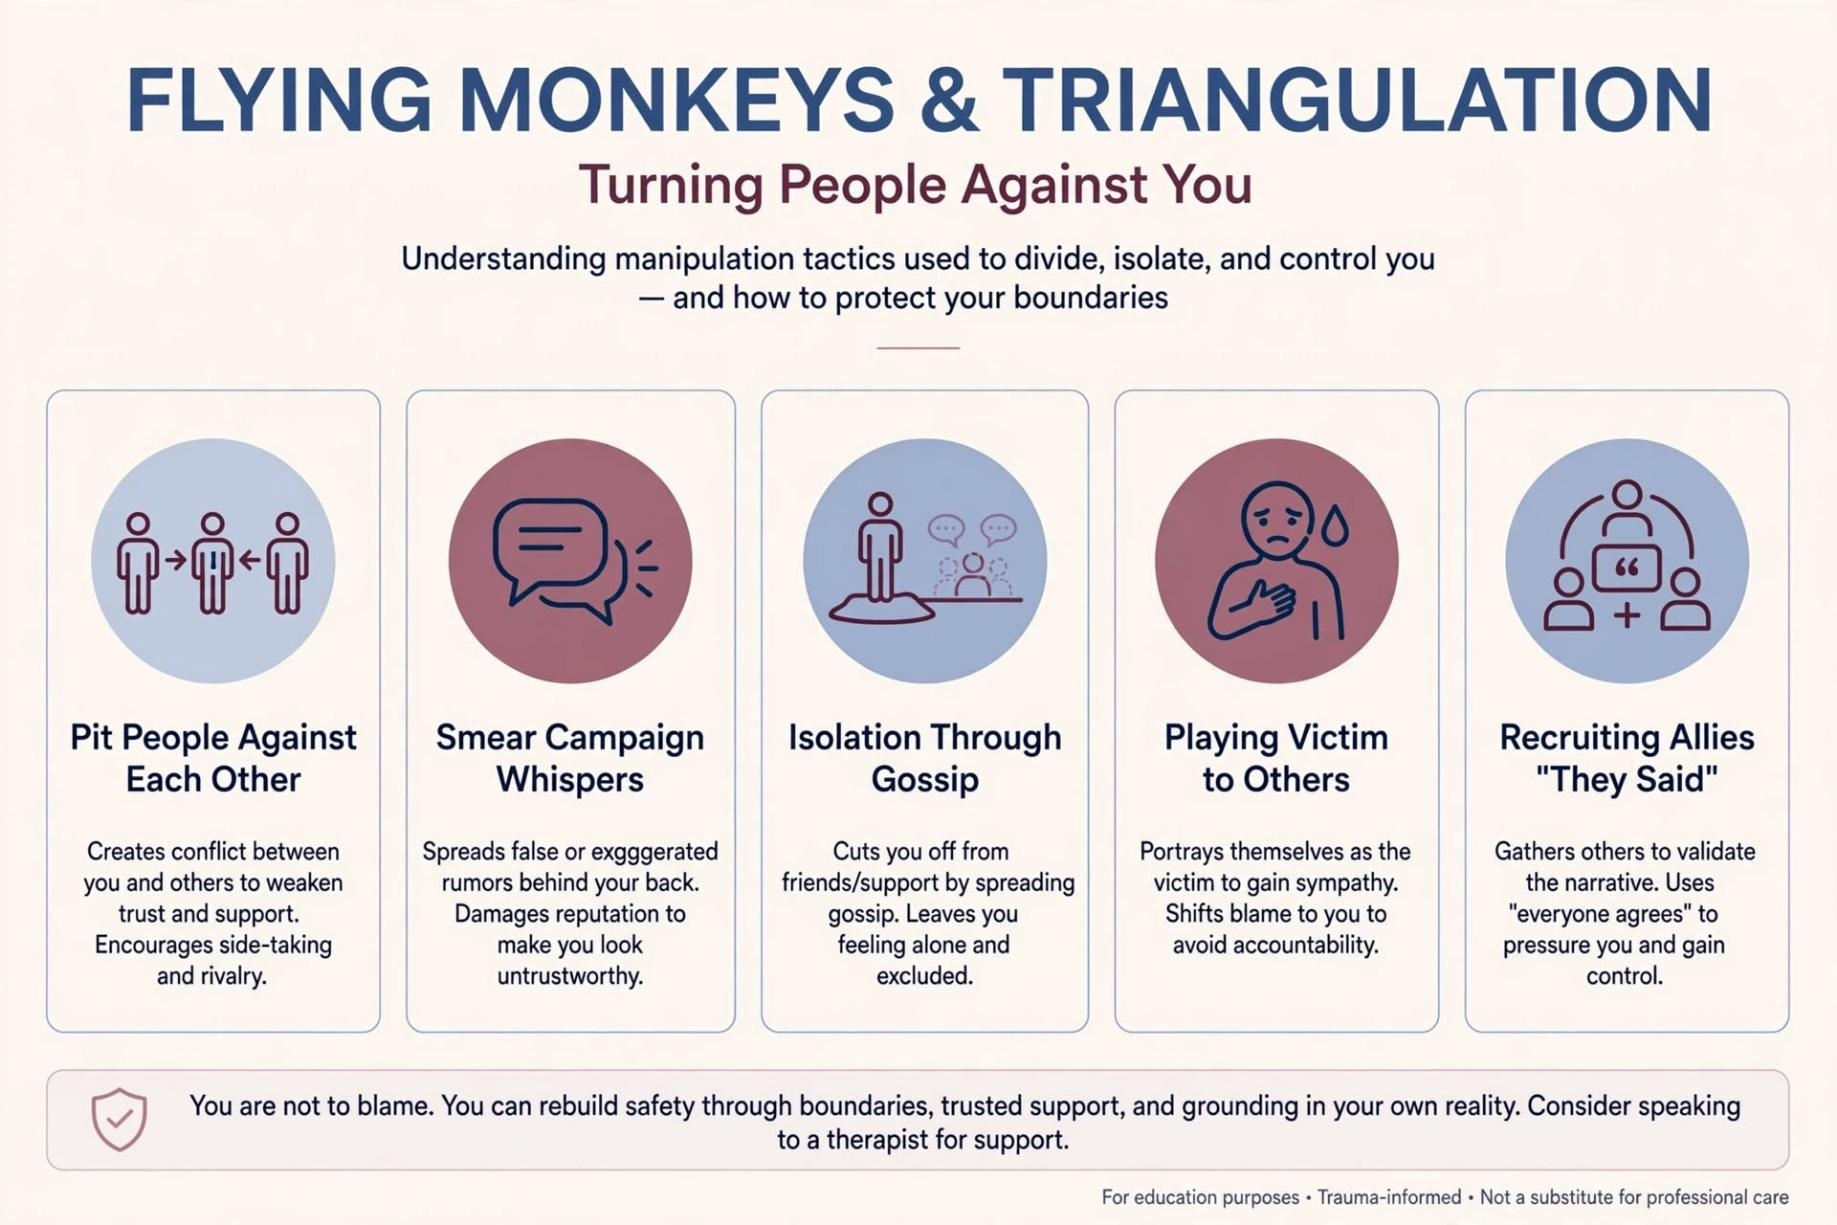
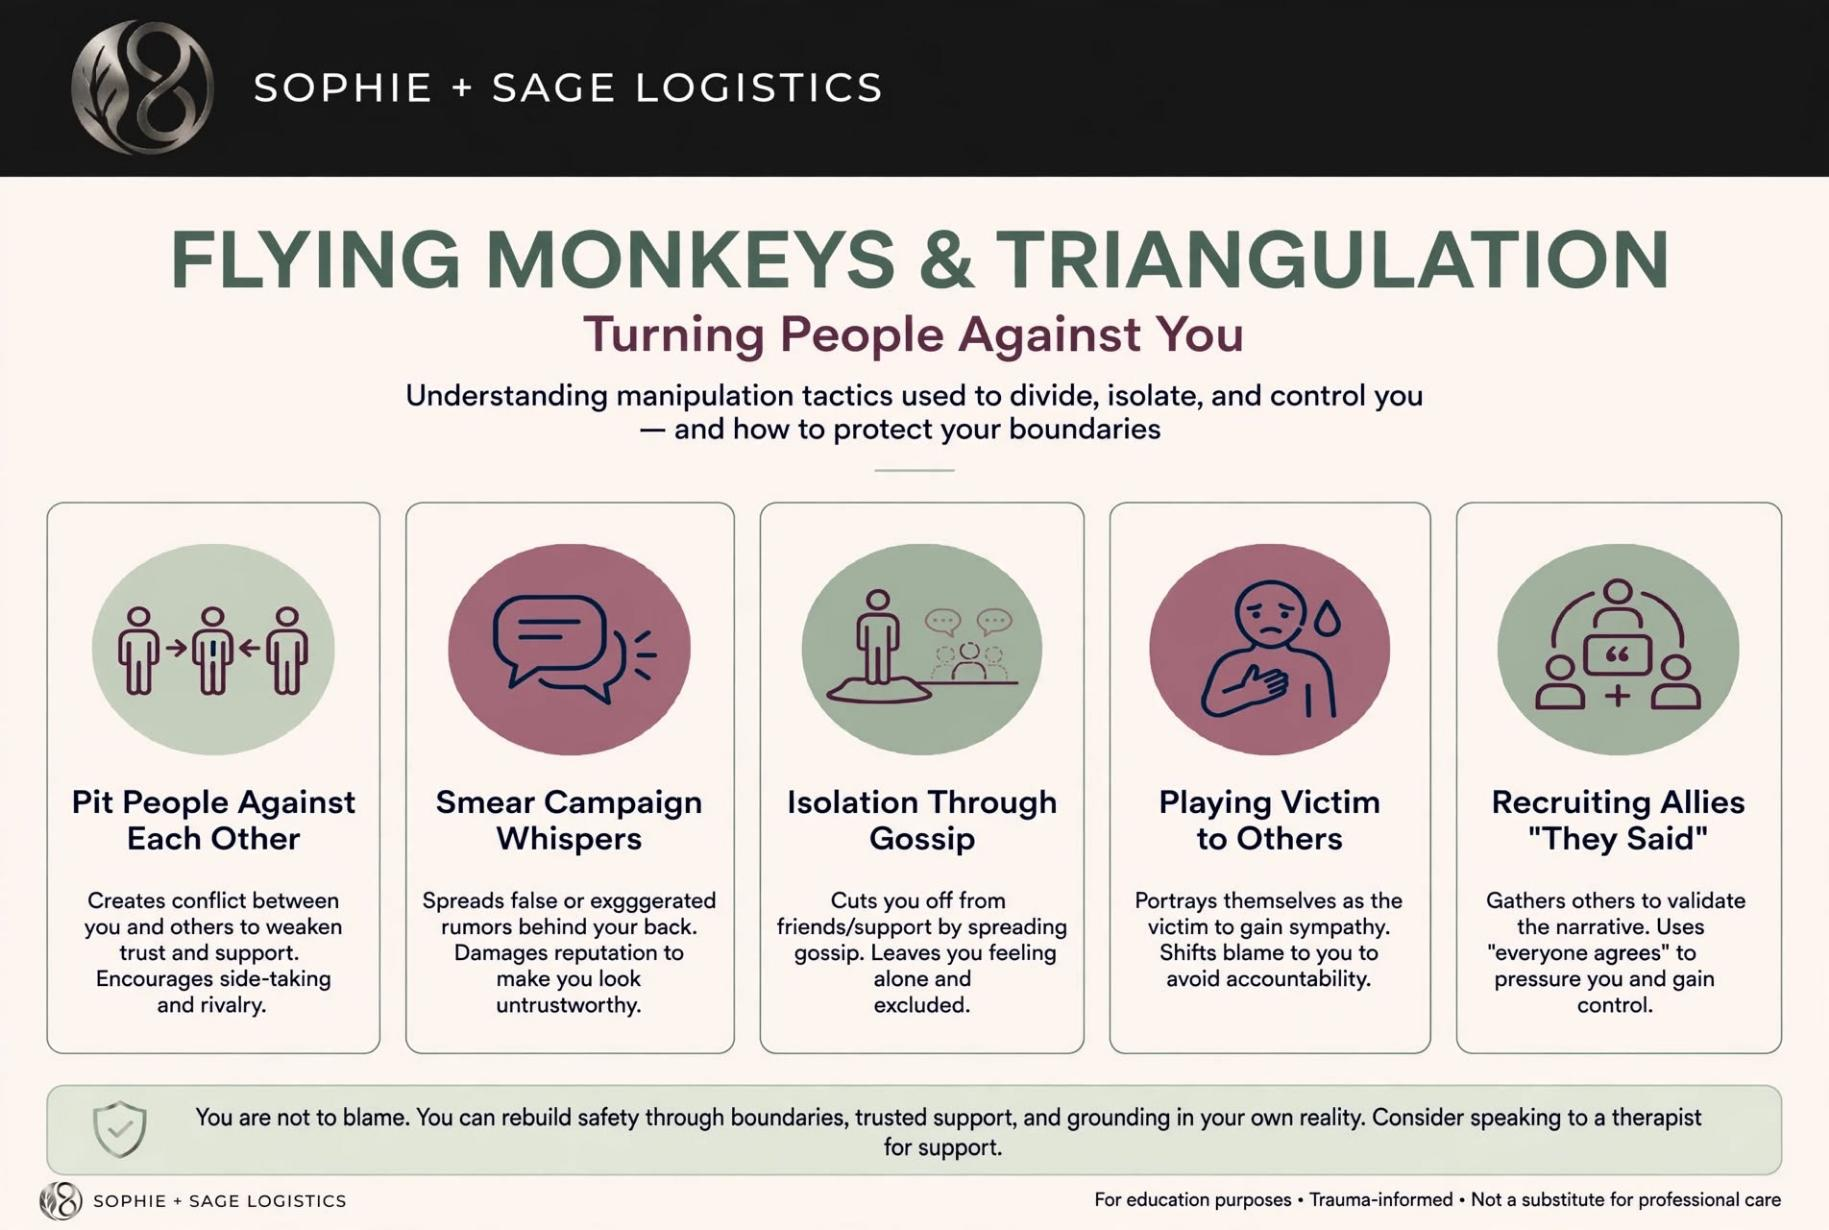
Swap in the eight branded sheets.

diff --git a/index.html b/index.html
@@ -462,43 +462,43 @@
         </div>
         <div class="cart-item">
           <strong>Flying Monkeys and Triangulation</strong>
-          <a href="sheets/flying-monkeys.webp" download>Download</a>
-          <a href="sheets/flying-monkeys.webp" target="_blank" rel="noopener">Open</a>
+          <a href="sheets/flying-monkeys.webp?v=2" download>Download</a>
+          <a href="sheets/flying-monkeys.webp?v=2" target="_blank" rel="noopener">Open</a>
         </div>
         <div class="cart-item">
           <strong>Gaslighting Tactics</strong>
-          <a href="sheets/gaslighting-tactics.webp" download>Download</a>
-          <a href="sheets/gaslighting-tactics.webp" target="_blank" rel="noopener">Open</a>
+          <a href="sheets/gaslighting-tactics.webp?v=2" download>Download</a>
+          <a href="sheets/gaslighting-tactics.webp?v=2" target="_blank" rel="noopener">Open</a>
         </div>
         <div class="cart-item">
           <strong>Red Flags Checklist</strong>
-          <a href="sheets/red-flags-checklist.webp" download>Download</a>
-          <a href="sheets/red-flags-checklist.webp" target="_blank" rel="noopener">Open</a>
+          <a href="sheets/red-flags-checklist.webp?v=2" download>Download</a>
+          <a href="sheets/red-flags-checklist.webp?v=2" target="_blank" rel="noopener">Open</a>
         </div>
         <div class="cart-item">
           <strong>Digital Abuse Log</strong>
-          <a href="sheets/digital-abuse-log.webp" download>Download</a>
-          <a href="sheets/digital-abuse-log.webp" target="_blank" rel="noopener">Open</a>
+          <a href="sheets/digital-abuse-log.webp?v=2" download>Download</a>
+          <a href="sheets/digital-abuse-log.webp?v=2" target="_blank" rel="noopener">Open</a>
         </div>
         <div class="cart-item">
           <strong>The Hoover Cycle</strong>
-          <a href="sheets/hoover-cycle.webp" download>Download</a>
-          <a href="sheets/hoover-cycle.webp" target="_blank" rel="noopener">Open</a>
+          <a href="sheets/hoover-cycle.webp?v=2" download>Download</a>
+          <a href="sheets/hoover-cycle.webp?v=2" target="_blank" rel="noopener">Open</a>
         </div>
         <div class="cart-item">
           <strong>What Healing Really Looks Like</strong>
-          <a href="sheets/what-healing-looks-like.webp" download>Download</a>
-          <a href="sheets/what-healing-looks-like.webp" target="_blank" rel="noopener">Open</a>
+          <a href="sheets/what-healing-looks-like.webp?v=2" download>Download</a>
+          <a href="sheets/what-healing-looks-like.webp?v=2" target="_blank" rel="noopener">Open</a>
         </div>
         <div class="cart-item">
           <strong>Who Gets Targeted, and Why</strong>
-          <a href="sheets/who-gets-targeted.webp" download>Download</a>
-          <a href="sheets/who-gets-targeted.webp" target="_blank" rel="noopener">Open</a>
+          <a href="sheets/who-gets-targeted.webp?v=2" download>Download</a>
+          <a href="sheets/who-gets-targeted.webp?v=2" target="_blank" rel="noopener">Open</a>
         </div>
         <div class="cart-item">
           <strong>The Playbook Is Already Written</strong>
-          <a href="sheets/the-playbook.webp" download>Download</a>
-          <a href="sheets/the-playbook.webp" target="_blank" rel="noopener">Open</a>
+          <a href="sheets/the-playbook.webp?v=2" download>Download</a>
+          <a href="sheets/the-playbook.webp?v=2" target="_blank" rel="noopener">Open</a>
         </div>
               </div>
     </div>
